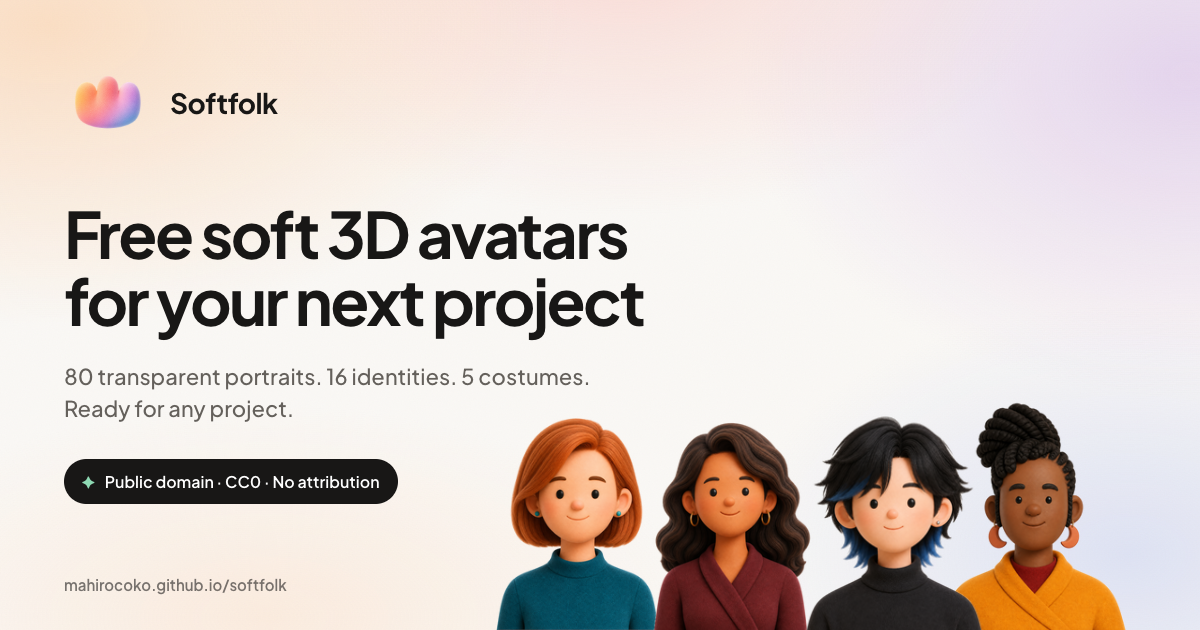
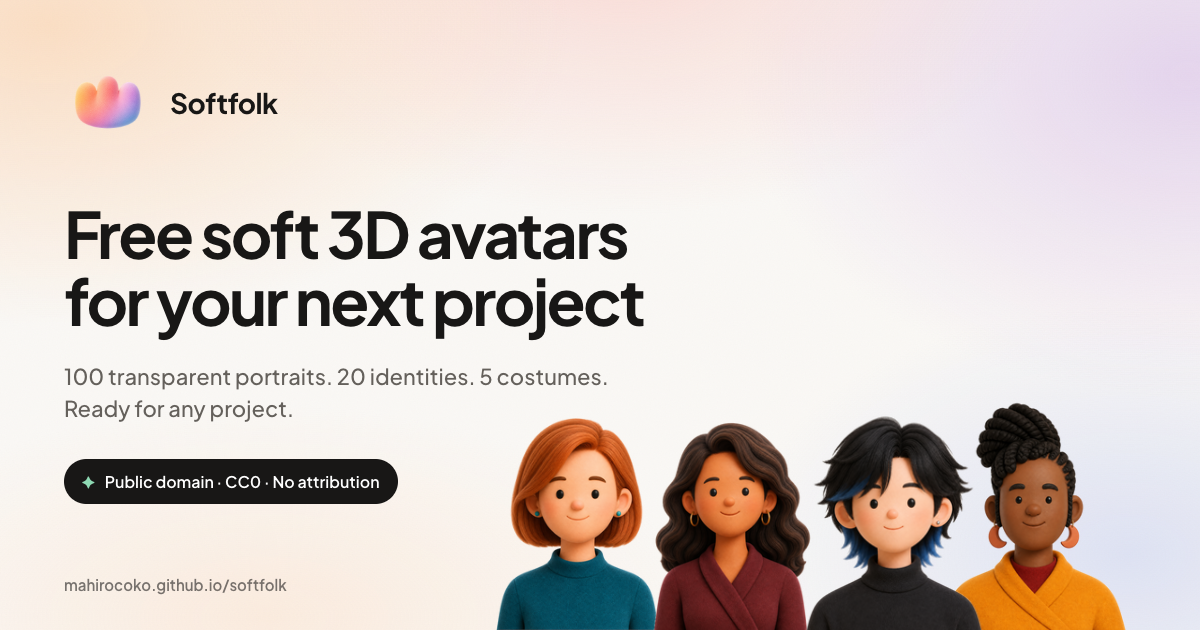
chore: expand Softfolk roster to 20 identities

Changed region(s): [[0.0617, 0.573, 0.4933, 0.6333]]

diff --git a/index.html b/index.html
@@ -6,7 +6,7 @@
     <title>Softfolk — Free Soft 3D Avatars for Your Next Project</title>
     <meta
       name="description"
-      content="An open collection of 16 original soft 3D identities with signature, everyday, work, formal, and yukata portraits. Dedicated to the public domain under CC0 1.0."
+      content="An open collection of 20 original soft 3D identities with signature, everyday, work, formal, and yukata portraits. Dedicated to the public domain under CC0 1.0."
     >
     <link rel="canonical" href="https://mahirocoko.github.io/softfolk/">
     <meta property="og:type" content="website">
@@ -14,7 +14,7 @@
     <meta property="og:title" content="Softfolk — Free Soft 3D Avatars">
     <meta
       property="og:description"
-      content="80 transparent soft 3D portraits across 16 original identities. Public domain under CC0."
+      content="100 transparent soft 3D portraits across 20 original identities. Public domain under CC0."
     >
     <meta property="og:url" content="https://mahirocoko.github.io/softfolk/">
     <meta
@@ -36,7 +36,7 @@
     <meta name="twitter:title" content="Softfolk — Free Soft 3D Avatars">
     <meta
       name="twitter:description"
-      content="80 transparent soft 3D portraits across 16 original identities. Public domain under CC0."
+      content="100 transparent soft 3D portraits across 20 original identities. Public domain under CC0."
     >
     <meta
       name="twitter:image"
@@ -84,7 +84,7 @@
         </h1>
 
         <p class="hero-deck">
-          80 soft 3D portraits you can use anywhere — no attribution, no cost. Public domain under CC0.
+          100 soft 3D portraits you can use anywhere — no attribution, no cost. Public domain under CC0.
         </p>
 
         <div class="hero-actions">
@@ -105,8 +105,8 @@
         </div>
 
         <ul class="feature-badges" aria-label="Collection features">
-          <li class="feature-badge"><span class="badge-dot">✦</span> 16 Unique Identities</li>
-          <li class="feature-badge"><span class="badge-dot">✦</span> 80 Soft 3D Portraits</li>
+          <li class="feature-badge"><span class="badge-dot">✦</span> 20 Unique Identities</li>
+          <li class="feature-badge"><span class="badge-dot">✦</span> 100 Soft 3D Portraits</li>
           <li class="feature-badge"><span class="badge-dot">✦</span> 5 Costumes Each</li>
           <li class="feature-badge"><span class="badge-dot">✦</span> CC0 Public Domain</li>
           <li class="feature-badge"><span class="badge-dot">✦</span> 256×256 PNG</li>
@@ -121,7 +121,7 @@
             <span class="step-num">1</span>
             <div class="step-meta">
               <h2 class="step-title">Choose Identity</h2>
-              <p class="step-desc">Pick from 16 characters and 5 costumes</p>
+              <p class="step-desc">Pick from 20 characters and 5 costumes</p>
             </div>
             <div class="step-pill">
               <code><span class="hl-fn">fetch</span>(<span class="hl-str">'/data/avatars.json'</span>)</code>
@@ -412,7 +412,7 @@
       <section class="catalog-section" aria-labelledby="catalog-heading">
         <div class="catalog-header">
           <div class="catalog-title-group">
-            <h2 id="catalog-heading" class="catalog-title">All 16 Identities</h2>
+            <h2 id="catalog-heading" class="catalog-title">All 20 Identities</h2>
             <p class="catalog-deck">Search by name, costume, or features.</p>
           </div>
 

diff --git a/tests/source-inventory.test.ts b/tests/source-inventory.test.ts
@@ -26,14 +26,14 @@ describe('source inventory', () => {
   const assetsRoot = repoPath('assets')
   const pngFiles = listPngFiles(assetsRoot)
 
-  it('keeps exactly sixteen identities and five costumes in the public index', () => {
+  it('keeps exactly twenty identities and five costumes in the public index', () => {
     expect(collection.version).toBe(1)
-    expect(collection.avatars).toHaveLength(16)
+    expect(collection.avatars).toHaveLength(20)
     expect(collection.costumes.map((costume) => costume.id)).toEqual([...COSTUME_IDS])
   })
 
-  it('has exactly 80 nested PNGs and no root-level asset aliases', () => {
-    expect(pngFiles).toHaveLength(80)
+  it('has exactly 100 nested PNGs and no root-level asset aliases', () => {
+    expect(pngFiles).toHaveLength(100)
 
     const rootAliases = readdirSync(assetsRoot).filter((name) => name.endsWith('.png'))
     expect(rootAliases).toEqual([])

diff --git a/tests/filter.test.ts b/tests/filter.test.ts
@@ -12,7 +12,7 @@ describe('collection filtering', () => {
   const collection = loadSourceCollection()
 
   it('returns the full roster for a blank query', () => {
-    expect(filterAvatars(collection.avatars, '  ')).toHaveLength(16)
+    expect(filterAvatars(collection.avatars, '  ')).toHaveLength(20)
   })
 
   it('matches identity names without requiring exact case', () => {
@@ -31,6 +31,10 @@ describe('collection filtering', () => {
   it('matches the explicitly authored Japanese identity tag', () => {
     expect(filterAvatars(collection.avatars, 'japanese').map((avatar) => avatar.id)).toEqual([
       'pax',
+      'aoi',
+      'mio',
+      'ren',
+      'sota',
     ])
   })
 

diff --git a/tests/interaction.test.ts b/tests/interaction.test.ts
@@ -15,7 +15,7 @@ describe('catalog interaction', () => {
       throw new Error('Fixture is missing search or roster.')
     }
 
-    expect(roster.querySelectorAll('.identity')).toHaveLength(16)
+    expect(roster.querySelectorAll('.identity')).toHaveLength(20)
 
     search.focus()
     search.value = 'glasses'
@@ -51,7 +51,7 @@ describe('catalog interaction', () => {
     expect(search.value).toBe('')
     expect(roster.hidden).toBe(false)
     expect(empty.hidden).toBe(true)
-    expect(roster.querySelectorAll('.identity')).toHaveLength(16)
+    expect(roster.querySelectorAll('.identity')).toHaveLength(20)
     expect(document.activeElement).toBe(search)
   })
 

diff --git a/tests/build-output.test.ts b/tests/build-output.test.ts
@@ -79,8 +79,8 @@ describe('build output canonical paths', () => {
     expect(html).not.toContain('softfolk-128.png')
     expect(html).not.toMatch(/\/site\/softfolk-\d+-[^"]+\.png/)
     expect(html).not.toContain('vite-ignore')
-    expect(html).toContain('80 soft 3D portraits')
-    expect(html).toContain('All 16 Identities')
+    expect(html).toContain('100 soft 3D portraits')
+    expect(html).toContain('All 20 Identities')
     expect(html).toContain('5 Costumes Each')
     expect(html).not.toContain('All 12 Identities')
 

diff --git a/brand/social/softfolk-og-source.html b/brand/social/softfolk-og-source.html
@@ -171,7 +171,7 @@
         <span class="brand-name">Softfolk</span>
       </div>
       <h1>Free soft 3D avatars for your next project</h1>
-      <p class="deck">80 transparent portraits. 16 identities. 5 costumes. Ready for any project.</p>
+      <p class="deck">100 transparent portraits. 20 identities. 5 costumes. Ready for any project.</p>
       <p class="license">Public domain · CC0 · No attribution</p>
     </main>
 

diff --git a/AGENTS.md b/AGENTS.md
@@ -4,7 +4,7 @@ This file applies to the whole repository. Current source, tests, `README.md`, `
 
 ## Product truth
 
-- Softfolk is a public-domain collection of 16 identities with five costumes each: `signature`, `everyday`, `work`, `formal`, and `yukata`.
+- Softfolk is a public-domain collection of 20 identities with five costumes each: `signature`, `everyday`, `work`, `formal`, and `yukata`.
 - Keep product copy concise, direct, and written for someone evaluating or using the collection. Avoid prompt-inflated feature lists, repeated counts, AI-sounding filler, and unsupported claims.
 - CC0 is a real package contract, but not every surface must repeat it. The website footer stays minimal: `Built by Mahiro.` plus the existing repository, metadata, and license links.
 - Do not invent Figma files, Product Hunt status, usage metrics, users, versions, testimonials, or other proof that the repository cannot support.
@@ -12,9 +12,9 @@ This file applies to the whole repository. Current source, tests, `README.md`, `
 ## Canonical asset contracts
 
 - `assets/<identity>/<costume>.png` is the only public avatar delivery tree.
-- Keep exactly 80 nested portrait files and no root-level aliases.
+- Keep exactly 100 nested portrait files and no root-level aliases.
 - Every canonical portrait is a metadata-free 256×256 8-bit transparent RGBA PNG. Preserve alpha quality and decontaminated soft edges; do not reintroduce a cream matte.
-- `data/avatars.json` owns the 16×5 identity, tag, costume, and path inventory. Keep its paths aligned with `src/collection.ts` and the files on disk.
+- `data/avatars.json` owns the 20×5 identity, tag, costume, and path inventory. Keep its paths aligned with `src/collection.ts` and the files on disk.
 - Package metadata and visible snippets continue to use canonical `/assets/<identity>/<costume>.png` examples. The hosted demo resolves images, fetches, downloads, and resource links through Vite `BASE_URL` so the standard `/softfolk/` GitHub Pages project path works without changing package-facing examples.
 - `brand/softfolk-symbol.png` is the archival Q master. `brand/icons/` owns fixed-size deliveries. Preserve the selected Q geometry, square padding ratio, gradient, texture, color design, and transparent perimeter.
 - `brand/social/softfolk-og.png` is the canonical 1200×630 opaque RGB share card. Rebuild it from `brand/social/softfolk-og-source.html` with accepted logo/avatar pixels and authored text; do not use imagegen text or a cropped page screenshot.

diff --git a/README.md b/README.md
@@ -1,8 +1,8 @@
 # Softfolk
 
-[![Softfolk — 80 transparent portraits across 16 identities and 5 costumes](brand/social/softfolk-og.png)](https://mahirocoko.github.io/softfolk/)
+[![Softfolk — 100 transparent portraits across 20 identities and 5 costumes](brand/social/softfolk-og.png)](https://mahirocoko.github.io/softfolk/)
 
-Softfolk is a collection of 16 original soft 3D characters. Each one comes in five costumes—signature, everyday, work, formal, and yukata—for a total of 80 transparent 256×256 PNG portraits.
+Softfolk is a collection of 20 original soft 3D characters. Each one comes in five costumes—signature, everyday, work, formal, and yukata—for a total of 100 transparent 256×256 PNG portraits.
 
 Use them in profiles, prototypes, mockups, or interfaces. **[Browse the collection →](https://mahirocoko.github.io/softfolk/)**
 
@@ -26,6 +26,10 @@ Use them in profiles, prototypes, mockups, or interfaces. **[Browse the collecti
 | Pax | [`signature`](assets/pax/signature.png) | [`everyday`](assets/pax/everyday.png) | [`work`](assets/pax/work.png) | [`formal`](assets/pax/formal.png) | [`yukata`](assets/pax/yukata.png) |
 | Marlo | [`signature`](assets/marlo/signature.png) | [`everyday`](assets/marlo/everyday.png) | [`work`](assets/marlo/work.png) | [`formal`](assets/marlo/formal.png) | [`yukata`](assets/marlo/yukata.png) |
 | Roux | [`signature`](assets/roux/signature.png) | [`everyday`](assets/roux/everyday.png) | [`work`](assets/roux/work.png) | [`formal`](assets/roux/formal.png) | [`yukata`](assets/roux/yukata.png) |
+| Aoi | [`signature`](assets/aoi/signature.png) | [`everyday`](assets/aoi/everyday.png) | [`work`](assets/aoi/work.png) | [`formal`](assets/aoi/formal.png) | [`yukata`](assets/aoi/yukata.png) |
+| Mio | [`signature`](assets/mio/signature.png) | [`everyday`](assets/mio/everyday.png) | [`work`](assets/mio/work.png) | [`formal`](assets/mio/formal.png) | [`yukata`](assets/mio/yukata.png) |
+| Ren | [`signature`](assets/ren/signature.png) | [`everyday`](assets/ren/everyday.png) | [`work`](assets/ren/work.png) | [`formal`](assets/ren/formal.png) | [`yukata`](assets/ren/yukata.png) |
+| Sota | [`signature`](assets/sota/signature.png) | [`everyday`](assets/sota/everyday.png) | [`work`](assets/sota/work.png) | [`formal`](assets/sota/formal.png) | [`yukata`](assets/sota/yukata.png) |
 
 ## Use an avatar
 

diff --git a/brand/social/README.md b/brand/social/README.md
@@ -8,7 +8,7 @@
 - Intended use: Open Graph and Twitter large-image previews
 - Dimensions: 1200×630
 - Format: opaque, metadata-free RGB PNG
[2 lines of base64/hex data omitted]
 - Visual source: accepted Softfolk Q, current whole-page gradient/noise, and the canonical Aster, Mira, Kai, and Zuri signature portraits
 - Copy source: authored directly in `brand/social/softfolk-og-source.html`; no generated raster text
 - Production mode: deterministic browser render, not image generation
